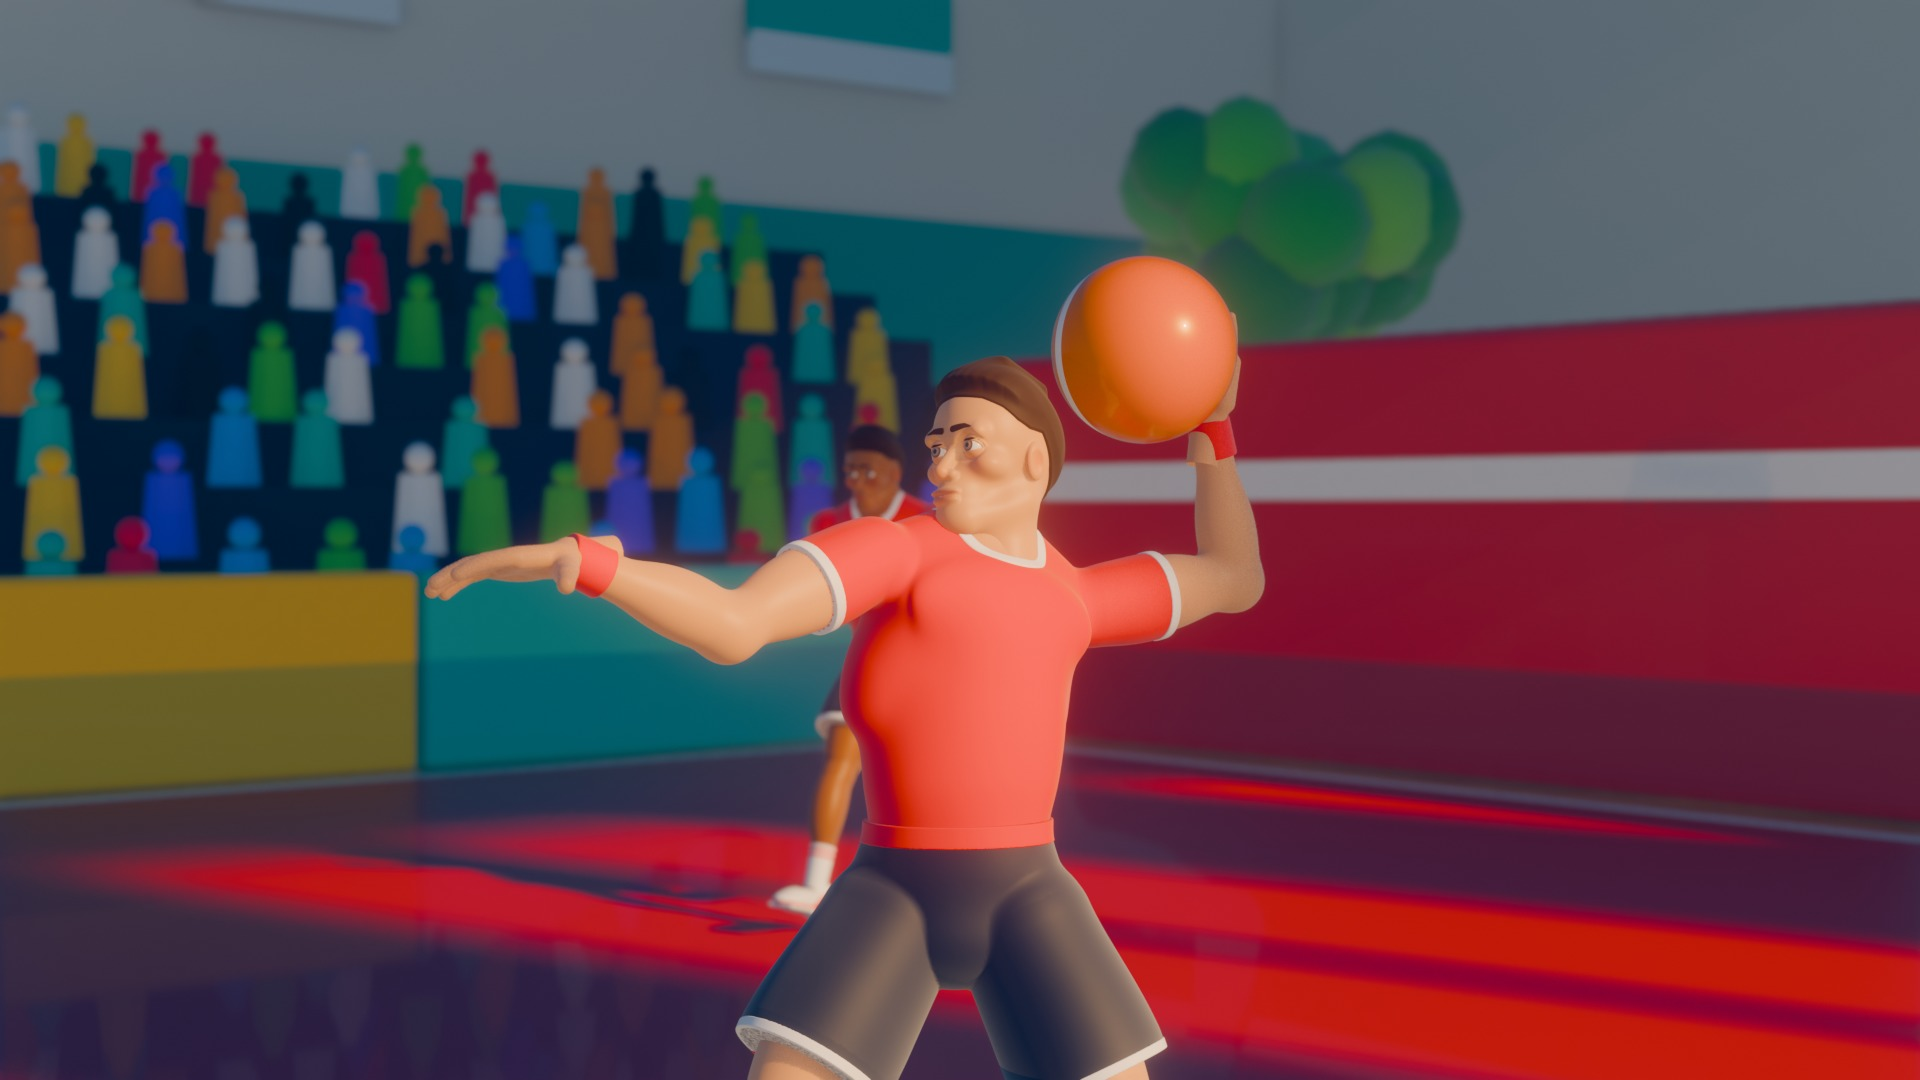
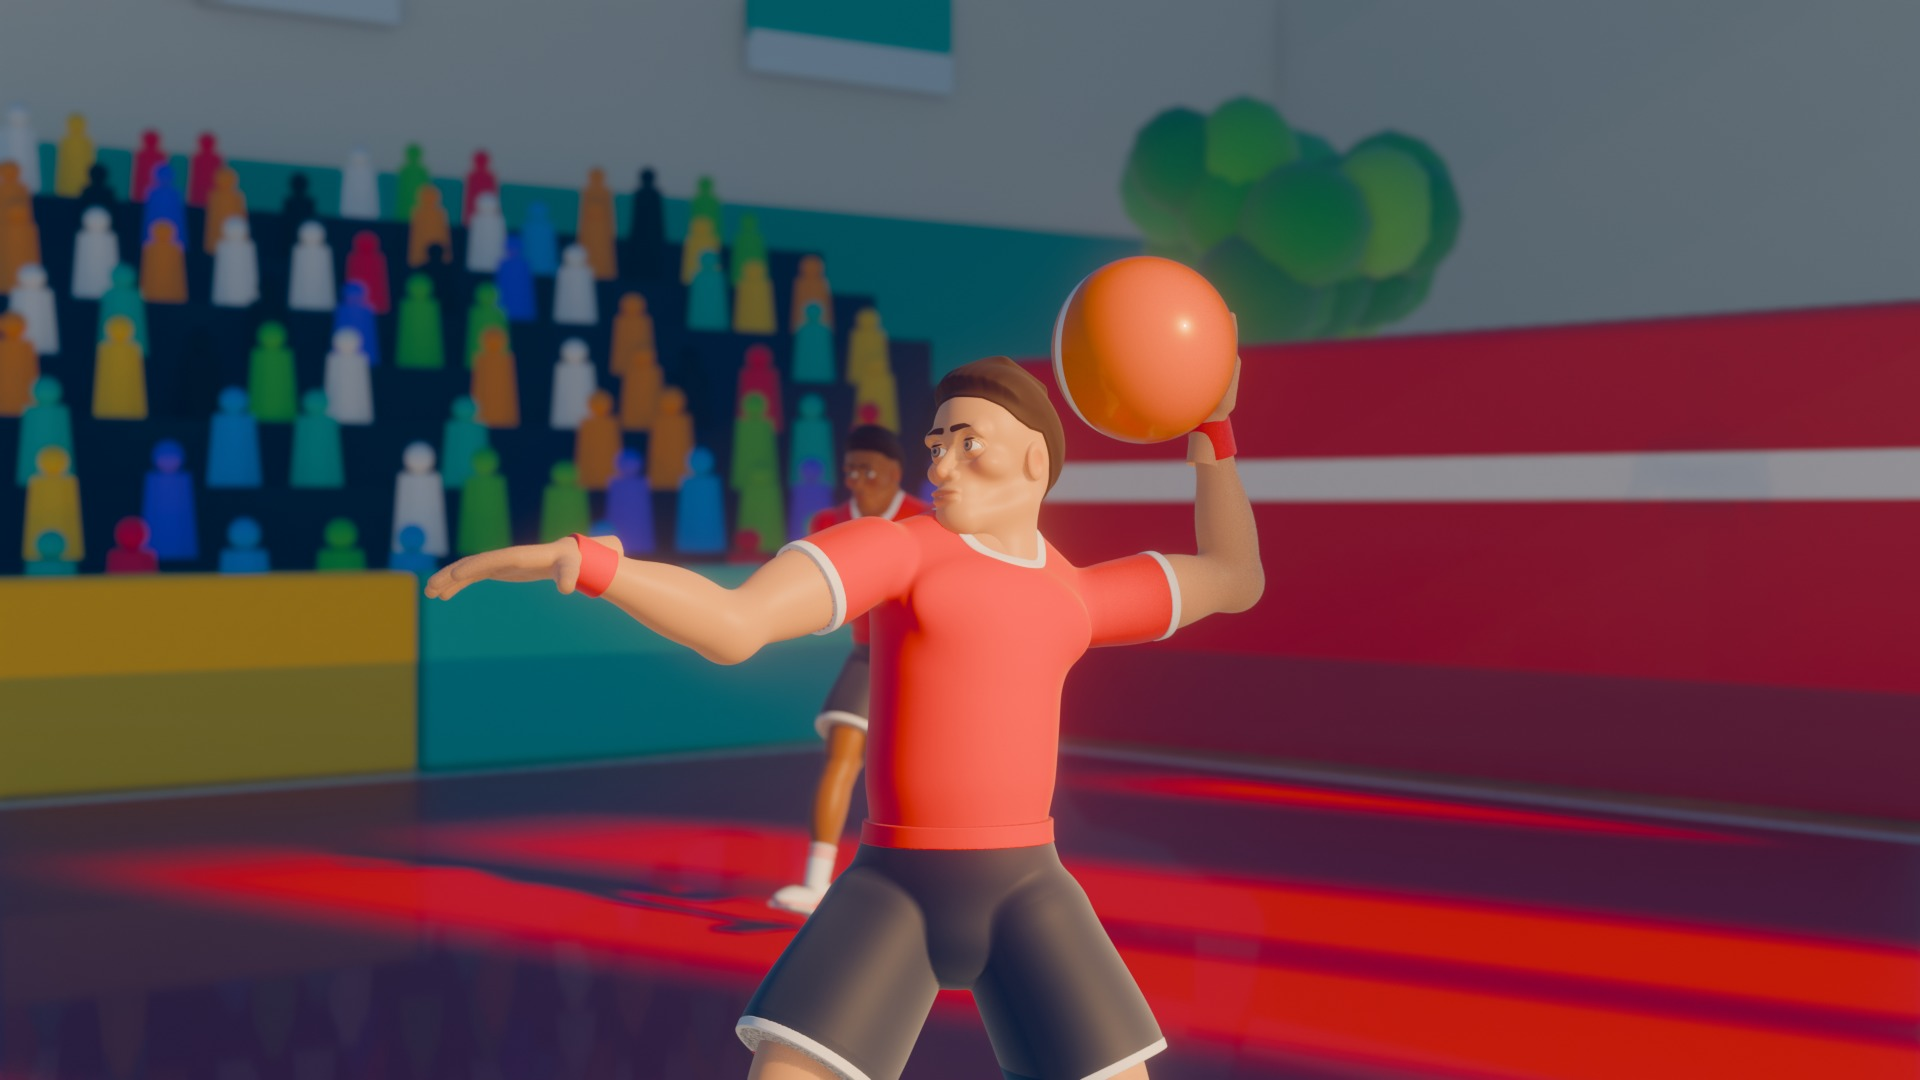
The user's pick after round 2: the helmet, with slimmer lats
The athletes wear the sports helmet for now, and the face version is set
aside (decision 127). The bodies were "mostly okay" but looked like they
had abnormally big lats: the lat shapes leaned the wrong way and flared
out under the arms. They are slimmed and re-tilted, the shirt's drape
narrowed to match, and round 2's pictures are rendered again.

The user's Models folder of "free" Fortnite and Call of Duty character
downloads (copies of those games' characters, with no licences) was
checked and removed at the user's request; it was never committed.
LOOK_AND_FEEL.md lists CC0 alternatives for when the user looks for
models.

Changed region(s): [[0.4375, 0.55, 0.5, 0.7028], [0.5312, 0.6111, 0.5625, 0.7028]]

diff --git a/art/style_samples_2.py b/art/style_samples_2.py
@@ -503,8 +503,8 @@ def body_parts(J):
             t = smin(t, E(p, at(Rc, c, (0.045, 0, 0.14)), (0.05, 0.09, 0.075), Rc), 0.04)          # sternum: no cleavage
             t = smin(t, E(p, at(Rc, c, (0.05, 0, 0.152)), (0.034, 0.158, 0.064), Rc), 0.035)          # a broad, flat chest
             for s in (1, -1):
-                lat = Rc @ r1.rot(x=s * 18)
-                t = smin(t, E(p, at(Rc, c, (-0.032, s * 0.122, 0.08)), (0.07, 0.058, 0.135), lat), 0.04)
+                lat = Rc @ r1.rot(x=-s * 10)               # widest under the arm, tapering to the waist
+                t = smin(t, E(p, at(Rc, c, (-0.03, s * 0.1, 0.085)), (0.062, 0.042, 0.12), lat), 0.04)
                 t = smin(t, sd_cone(p, at(Rc, c, (-0.03, s * 0.045, 0.265)), at(Rc, c, (-0.03, s * 0.175, 0.21)), 0.05, 0.04), 0.04)
         if neck:
             n = sd_cone(p, at(Rc, c, (-0.014, 0, 0.17)), J["head"] + J["Rn"] @ Vector((-0.022, 0, -0.02)), 0.07, 0.06)
@@ -910,7 +910,7 @@ def jersey_parts(J, parts):
 
     def f(p):
         d = parts["torso"](p, inflate=0.008, neck=False)
-        d = smin(d, sd_ellipsoid(p, J["chest"] + J["Rm"] @ Vector((0.014, 0, -0.01)), (0.108, 0.15, 0.21), J["Rm"]), 0.05)  # hangs straight from the chest
+        d = smin(d, sd_ellipsoid(p, J["chest"] + J["Rm"] @ Vector((0.014, 0, -0.01)), (0.104, 0.136, 0.2), J["Rm"]), 0.05)  # hangs straight from the chest
         for side in ("L", "R"):
             o, n = sleeves[side]
             arm = smax(parts["upper_arm"](p, side, inflate=0.007), sd_plane(p, o, n), 0.004)

diff --git a/docs/LOOK_AND_FEEL.md b/docs/LOOK_AND_FEEL.md
@@ -1,6 +1,6 @@
 # The look and feel: the working plan
 
-This is the working plan for the branch `look-and-feel`. Why the branch exists, the analysis behind it and every decision are in phase 15 and decisions 112–126 of [PROJECT.md](PROJECT.md). This file holds:
+This is the working plan for the branch `look-and-feel`. Why the branch exists, the analysis behind it and every decision are in phase 15 and decisions 112–127 of [PROJECT.md](PROJECT.md). This file holds:
 
 - the goal;
 - the plan and where each step stands;
@@ -49,7 +49,7 @@ The game should look and feel professionally made: juice and good art, both. We 
 
 | # | Step | Status |
 | --- | --- | --- |
-| 1 | **Style samples:** two or three directions, rendered; the user picks | Round 1 done: the sports hall (decisions 124–126). Round 2 done: the hall in vibrant colour and light, and athletes towards Fortnite-like humanoids, with a helmet and with a face. Waiting for the user's pick |
+| 1 | **Style samples:** two or three directions, rendered; the user picks | Done. Round 1: the sports hall (decisions 124–126). Round 2: the hall in vibrant colour and light, and athletes towards Fortnite-like humanoids; the helmet, for now (decision 127) |
 | 2 | **Smooth and fair:** a graphics setting that scales itself down when the frame rate drops (D1); a warning when Chrome draws without the graphics card (D2); presses timed from the key event (B4); every effect prepared in the lobby; the host's tab on a lower setting by default | To do |
 | 3 | **Juice:** an impact freeze on the player who's hit (never on the balls you react to); a camera punch; screen shake with a slider that never moves the aim; particles; balls that stretch and spin; a zoom while charging | To do |
 | 4 | **Sound:** CC0 recordings, layered and varied; the hall's echo; music; a volume for each kind | To do |
@@ -233,7 +233,15 @@ These are starting targets, to be checked on an office laptop and adjusted:
   - **Depth of field** in the close-ups: not used in play.
   - **The leaf and cloud blobs:** hundreds of thousands of small triangles, replaced by a textured panel and the backdrop.
 
-**The user's pick:** to come.
+**The user's pick** (decision 127):
+
+- **The helmet, for now:** "Helmet is ok for now." The face version is set aside.
+- **The bodies are "mostly okay", but the lats looked abnormally big.** They were: the lat shapes leaned the wrong way and flared out under the arms. They were slimmed and re-tilted, the shirt's drape narrowed to match, and the round was rendered again. The pictures above are the new ones.
+- **The user will look for free models later.** CC0 candidates Claude checked on their official pages:
+  - [Quaternius Universal Base Characters](https://quaternius.com/packs/universalbasecharacters.html): CC0, "superhero" proportions, about 13,000 triangles, with a skeleton made for the Universal Animation Library. The free download has 2 base models and 5 hairstyles; the full set costs money.
+  - [Blender Studio's Human Base Meshes](https://www.blender.org/download/demo-files/): CC0 realistic and stylised bodies and heads, for sculpting.
+  - [MakeHuman / MPFB](https://static.makehumancommunity.org/mpfb/faq.html): CC0 exports; realistic, adjustable, with a skeleton.
+  - Not usable: "free" downloads of characters from other games. They're copies of someone else's characters, with no real licence (the `Models` folder, phase 15).
 
 ## The log
 
@@ -254,3 +262,6 @@ These are starting targets, to be checked on an office laptop and adjusted:
       - **The face:** sleepy, then staring eyes; a hair "helmet", then a "beanie".
       - **The mesher:** long streaks from a bug.
     - The lessons are in section 14 of `PROJECT.md`.
+  - The user's pick: the helmet, for now (decision 127).
+    - The lats looked abnormally big, so they were slimmed and the round rendered again. The scene was reopened in the user's Blender, after a copy of their open file was saved as `art/out/style-samples-2-before-slimmer-lats.blend`.
+    - The `Models` folder of "free" Fortnite and Call of Duty character downloads was checked (no licences; copies of those games' characters) and removed at the user's request.

diff --git a/docs/PROJECT.md b/docs/PROJECT.md
@@ -807,11 +807,15 @@ This is the short version, kept on `main` while internet mode waits on its branc
 - **What carries over:**
   - the hall, its baked sunlight, the shafts, the sky backdrop, bloom and the grade carry over cheaply;
   - each athlete is about 1.5 million triangles, against a budget of 5,000–10,000, and exists only as posed statues, so the game needs lighter rigged models (step 7).
-- **The user's pick** is next. The user also put models found online in a `Models` folder for Claude to check (licences first: the repository is public).
+- **The user's pick** (decision 127): the helmet, for now. The bodies are "mostly okay", but the lats looked abnormally big. They were: the lat shapes leaned the wrong way and flared out under the arms, so they were slimmed and re-tilted, and the round was rendered again.
+- **The `Models` folder:** the user had downloaded four "free" character models for Claude to check: three Fortnite characters and a Call of Duty character.
+  - They were copies of Epic Games' and Activision's characters, at least one extracted from the game itself (Fortnite's own texture names), with no licence at all.
+  - They were unusable (decision 119, and decision 126: a reference, not something to copy), and risky in a public repository. They were removed at the user's request.
+  - Claude listed CC0 alternatives in `docs/LOOK_AND_FEEL.md`, and the user will look for models later.
 
 **Next, in order:** the plan in `docs/LOOK_AND_FEEL.md`:
 
-1. Style samples.
+1. Style samples (done: the sports hall, the helmet for now).
 2. The performance items.
 3. Juice and sound.
 4. The arena, the ball and effects, the characters and their animation, and the HUD.
@@ -943,6 +947,7 @@ This is the short version, kept on `main` while internet mode waits on its branc
 | 124 | The setting is the sports hall | U | "I think the sport hall is the proper setting for the game." Picked from style samples round 1 (night arena, daylight court, sports hall) |
 | 125 | Colours and light like the landscapes of Genshin Impact: vibrant, alive, cheerful, with beautiful light. Never pale | U | "I like the colors from the hall. It's vibrant and alive and cheerful… I want the colors to look like Genshin Impact lands… I don't like pale." A reference for the style, not something to copy |
 | 126 | Characters towards Fortnite-like humanoids: stylised human proportions | U | "I'm looking forward for them to look something like Fortnite humanoid characters." A reference for the style, not something to copy. Round 1's characters were a first draft |
+| 127 | The athletes wear the sports helmet with a visor, for now; the face version is set aside. Round 2's bodies are the base, with slimmer lats | U | "Helmet is ok for now." "The model is mostly okay but they look like they all have big lats." Picked from style samples round 2. The face came out generic and slightly uncanny up close. The user will look for free (CC0) models later |
 
 ## 6. Current features
 

diff --git a/CLAUDE.md b/CLAUDE.md
@@ -2,7 +2,7 @@
 
 **Read `docs/PROJECT.md` before changing anything.** It holds the full history, every design decision and who made it, the architecture, network protocol, rules and numbers, how to run, test and build, and known pitfalls.
 
-**This is the branch `look-and-feel`** (graphics, juice and sound; phase 15 and decisions 112–126 in `docs/PROJECT.md`). It's checked out in its own folder, `Dodgeball-look-and-feel`, next to the main folder `Dodgeball`. The main folder belongs to the user's other work (`main`, `internet-mode`): never switch its branch or edit there from this branch's sessions.
+**This is the branch `look-and-feel`** (graphics, juice and sound; phase 15 and decisions 112–127 in `docs/PROJECT.md`). It's checked out in its own folder, `Dodgeball-look-and-feel`, next to the main folder `Dodgeball`. The main folder belongs to the user's other work (`main`, `internet-mode`): never switch its branch or edit there from this branch's sessions.
 
 - **The working plan is `docs/LOOK_AND_FEEL.md`:** the plan with each step's status, the art conventions, the budgets, the style samples and the log. Update it after each step, and keep phase 15 in `docs/PROJECT.md` as the record.
 - **Making art:**
